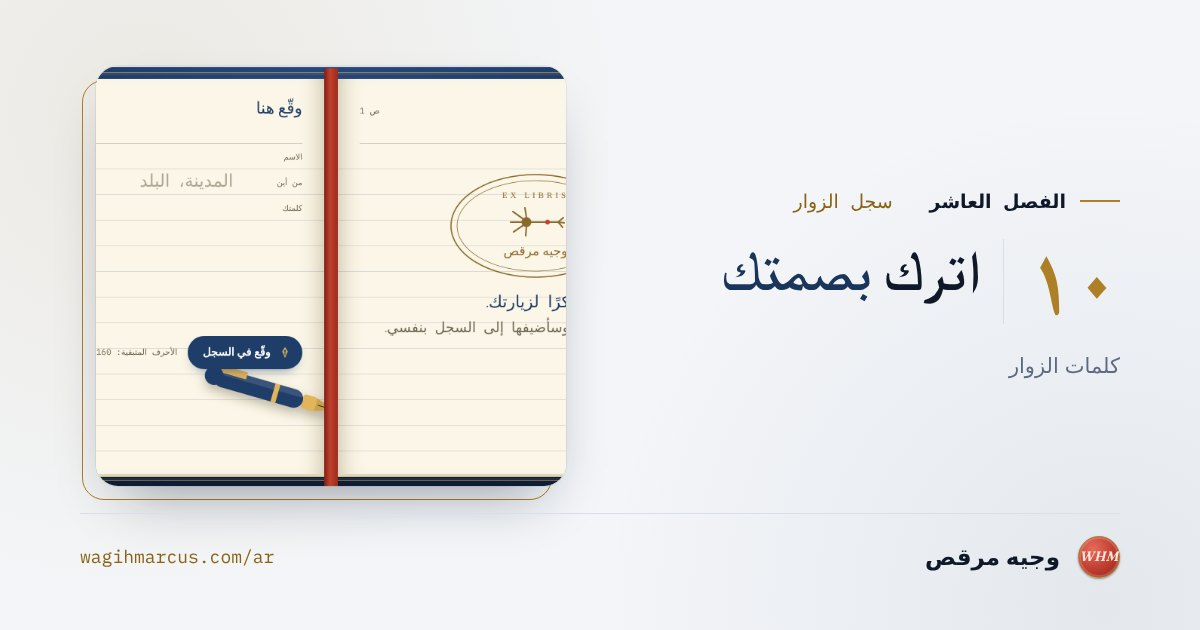
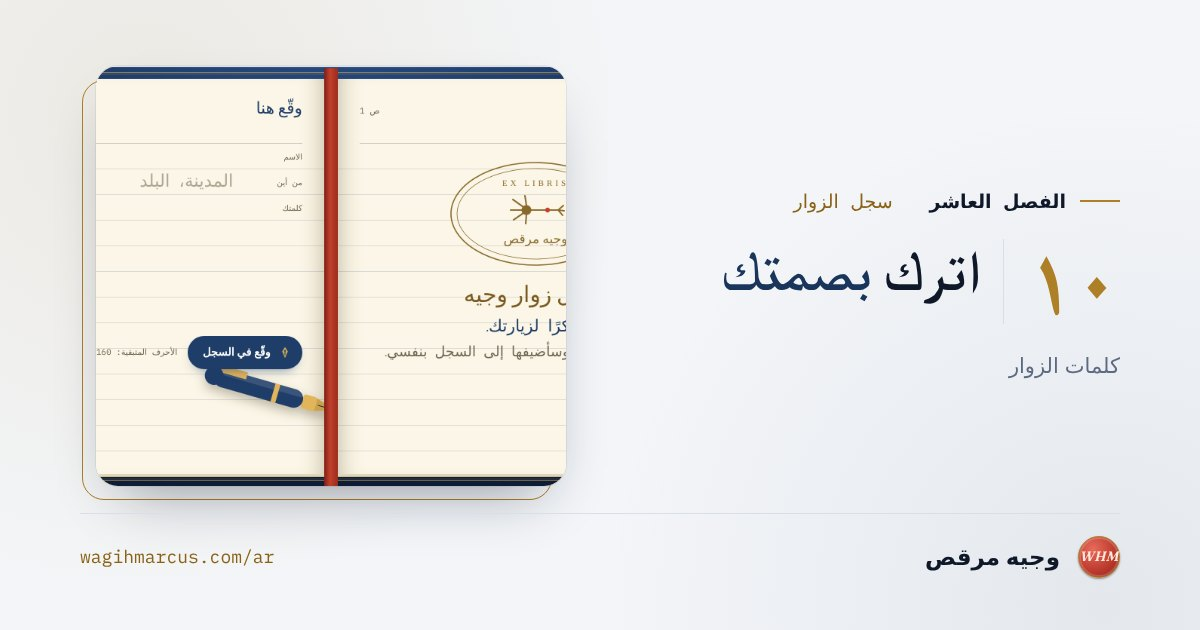
Add files via upload

Changed region(s): [[0.3083, 0.2413, 0.4933, 0.573]]

diff --git a/ar/index.html b/ar/index.html
@@ -1070,6 +1070,7 @@ html[dir="rtl"] .gb-ink{clip-path:inset(0 0 0 100%)}
 <!-- Google Analytics -->
 <script async src="https://www.googletagmanager.com/gtag/js?id=G-3X6H3BF7QM"></script>
 <script>window.dataLayer=window.dataLayer||[];function gtag(){dataLayer.push(arguments);}gtag('js',new Date());gtag('config','G-3X6H3BF7QM');</script>
+<style id="gb-pages">.gb-read .gb-list{height:340px;overflow:hidden}.gb-cover{padding-top:18px}.gb-cover .gb-title{margin:2px 0 6px;font:italic 400 30px/40px var(--f-display);color:#7a5a1f;letter-spacing:.01em}@media (max-width:760px){:root:not(.view-desk) .gb-read .gb-list{height:340px;min-height:0}:root:not(.view-desk) .gb-cover .gb-plate{width:min(200px,72%)}:root:not(.view-desk) .gb-cover .gb-title{font-size:26px;line-height:36px}}:root.view-phone .gb-read .gb-list{height:340px;min-height:0}:root.view-phone .gb-cover .gb-plate{width:min(200px,72%)}:root.view-phone .gb-cover .gb-title{font-size:26px;line-height:36px}</style>
 <style id="i18n-ar">
 /* ===== Arabic edition: fonts, right-to-left layout, islands that stay left-to-right ===== */
 :root{--f-display:"Fraunces","Amiri","Noto Naskh Arabic","Geeza Pro",Georgia,serif;--f-body:"IBM Plex Sans","IBM Plex Sans Arabic","Noto Sans Arabic","Segoe UI",Tahoma,sans-serif;--f-mono:"IBM Plex Mono","IBM Plex Sans Arabic","Noto Sans Arabic",ui-monospace,monospace;--hand:"Nothing You Could Do","Aref Ruqaa","Amiri",cursive}
@@ -1837,7 +1838,7 @@ html[dir="rtl"] .gb-ink{clip-path:inset(0 0 0 100%)}
         <div class="gb-page gb-read">
           <div class="gb-ph"><span class="gb-run">الزوار</span><span class="gb-pno">ص <span id="gb-pno">1</span></span></div>
           <ol class="gb-list" id="gb-list" aria-live="polite"></ol>
-          <div class="gb-turns"><button type="button" class="gb-turn" id="gb-prev" hidden><span aria-hidden="true">←</span> الأقدم</button><button type="button" class="gb-turn gb-later" id="gb-next" hidden>الأحدث <span aria-hidden="true">→</span></button></div>
+          <div class="gb-turns"><button type="button" class="gb-turn" id="gb-prev" hidden><span aria-hidden="true">←</span> السابقة</button><button type="button" class="gb-turn gb-later" id="gb-next" hidden>التالية <span aria-hidden="true">→</span></button></div>
         </div>
         <div class="gb-page gb-write">
           <div class="gb-ph"><span class="gb-run">وقّع هنا</span><span class="gb-date" id="gb-date"></span></div>
@@ -3257,7 +3258,7 @@ html[dir="rtl"] .gb-ink{clip-path:inset(0 0 0 100%)}
   });
 })();
 </script>
-<script id="whm-ui" type="application/json">{"lang": "ar", "site": "https://wagihmarcus.com", "share": "مشاركة", "copied": "تم نسخ الرابط", "shareLabel": "شارك رابط هذا الفصل: {t}", "shareText": "{t} · وجيه مرقص", "copyPrompt": "انسخ هذا الرابط:", "gb": {"dateLocale": "ar-EG-u-nu-latn", "pageName": "العربية", "capEmpty": "كلمات الزوار", "capOne": "توقيع واحد حتى الآن", "capMany": "عدد التوقيعات حتى الآن: {n}", "empty1": "شكرًا لزيارتك.", "empty2": "اترك بضع كلمات، وسأضيفها إلى السجل بنفسي.", "left": "الأحرف المتبقية: {n}", "needName": "من فضلك اكتب اسمك.", "needNote": "من فضلك اترك كلمة قصيرة.", "sending": "جارٍ الإرسال…", "failed": "تعذّر إرسال التوقيع. حاول مرة أخرى بعد قليل.", "offline": "تعذّر إرسال التوقيع. تحقّق من اتصالك وحاول مرة أخرى."}}</script>
+<script id="whm-ui" type="application/json">{"lang": "ar", "site": "https://wagihmarcus.com", "share": "مشاركة", "copied": "تم نسخ الرابط", "shareLabel": "شارك رابط هذا الفصل: {t}", "shareText": "{t} · وجيه مرقص", "copyPrompt": "انسخ هذا الرابط:", "gb": {"dateLocale": "ar-EG-u-nu-latn", "pageName": "العربية", "capEmpty": "كلمات الزوار", "capOne": "توقيع واحد حتى الآن", "capMany": "عدد التوقيعات حتى الآن: {n}", "empty1": "شكرًا لزيارتك.", "empty2": "اترك بضع كلمات، وسأضيفها إلى السجل بنفسي.", "left": "الأحرف المتبقية: {n}", "needName": "من فضلك اكتب اسمك.", "needNote": "من فضلك اترك كلمة قصيرة.", "sending": "جارٍ الإرسال…", "failed": "تعذّر إرسال التوقيع. حاول مرة أخرى بعد قليل.", "offline": "تعذّر إرسال التوقيع. تحقّق من اتصالك وحاول مرة أخرى.", "title": "سجل زوار وجيه"}}</script>
 <script>
 /* v4: language switch, chapter share links and the guestbook */
 (function(){
@@ -3298,7 +3299,7 @@ html[dir="rtl"] .gb-ink{clip-path:inset(0 0 0 100%)}
   (function(){
     var root=document.getElementById('gb');if(!root)return;
     var G=UI.gb||{};function g(k,v){return fill(G[k]!=null?G[k]:k,v);}
-    var DL=G.dateLocale||'en-GB',PER=3,entries=[],page=0;
+    var DL=G.dateLocale||'en-GB',entries=[],page=0,book=[null],rt=0,lastW=0;
     var list=document.getElementById('gb-list'),pno=document.getElementById('gb-pno'),prev=document.getElementById('gb-prev'),next=document.getElementById('gb-next'),cap=document.getElementById('gb-cap');
     var PLATE="<svg class=\"gb-plate\" viewBox=\"0 0 240 150\" aria-hidden=\"true\"><ellipse cx=\"120\" cy=\"75\" rx=\"112\" ry=\"68\" fill=\"none\" stroke=\"currentColor\" stroke-width=\"1.6\"/><ellipse cx=\"120\" cy=\"75\" rx=\"104\" ry=\"60\" fill=\"none\" stroke=\"currentColor\" stroke-width=\".8\"/><g fill=\"none\" stroke=\"currentColor\" stroke-width=\"2\" stroke-linecap=\"round\"><path d=\"M104 66l-14-10M104 70h-17M104 74l-13 9M108 64l-2-13M108 76l-1 12M114 70h36M150 70l7-6M150 70l8 1M150 70l6 7\"/></g><circle cx=\"108\" cy=\"70\" r=\"6.5\" fill=\"currentColor\"/><circle cx=\"136\" cy=\"70\" r=\"3.2\" fill=\"#c2412d\"/><text x=\"120\" y=\"38\" text-anchor=\"middle\" font-family=\"Georgia,serif\" font-size=\"11\" letter-spacing=\"4\" fill=\"currentColor\">EX LIBRIS</text><text x=\"120\" y=\"114\" text-anchor=\"middle\" font-family=\"Amiri,Georgia,serif\" font-size=\"17\" fill=\"currentColor\">وجيه مرقص</text></svg>";
     function iso(d){d=d||new Date();return d.getFullYear()+'-'+('0'+(d.getMonth()+1)).slice(-2)+'-'+('0'+d.getDate()).slice(-2);}
@@ -3309,17 +3310,28 @@ html[dir="rtl"] .gb-ink{clip-path:inset(0 0 0 100%)}
       if(place&&day)w.appendChild(document.createTextNode(' · '));
       if(day){var b=el('bdi',null,fmt(day));w.appendChild(b);}
       return w;}
-    function pages(){return Math.max(1,Math.ceil(entries.length/PER));}
+    function pages(){return book.length;}
     function capText(){var n=entries.length;var c=cap.firstChild;var txt=n===0?g('capEmpty'):n===1?g('capOne'):g('capMany',{n:n});if(c&&c.nodeType===3)c.nodeValue=txt;else cap.insertBefore(document.createTextNode(txt),cap.firstChild);}
+    function entryEl(e){var li=el('li','gb-e'),row=el('div','gb-row'),n=el('span','gb-n',e.name),w=meta(e.place,e.date),p=el('p','gb-t',e.note);
+      n.dir=p.dir='auto';row.appendChild(n);row.appendChild(w);li.appendChild(row);li.appendChild(p);return li;}
+    function titleEl(){var li=el('li','gb-empty gb-cover');li.innerHTML=PLATE;li.appendChild(el('p','gb-title',g('title')));li.appendChild(el('p','gb-e1',g('empty1')));li.appendChild(el('p','gb-e2',g('empty2')));return li;}
+    /* Page 1 is the title page; the notes then fill each page up to its ruled height, oldest first */
+    function paginate(){var out=[null],cur=[];list.textContent='';
+      entries.forEach(function(e,i){var li=entryEl(e);list.appendChild(li);
+        if(cur.length&&list.scrollHeight>list.clientHeight+2){out.push(cur);cur=[];list.textContent='';list.appendChild(li);}
+        cur.push(i);});
+      if(cur.length)out.push(cur);book=out;lastW=list.clientWidth;}
     function draw(){
       list.textContent='';
-      if(!entries.length){var li=el('li','gb-empty');li.innerHTML=PLATE;li.appendChild(el('p','gb-e1',g('empty1')));li.appendChild(el('p','gb-e2',g('empty2')));list.appendChild(li);}
-      else entries.slice(page*PER,page*PER+PER).forEach(function(e){
-        var li=el('li','gb-e'),row=el('div','gb-row'),n=el('span','gb-n',e.name),w=meta(e.place,e.date),p=el('p','gb-t',e.note);
-        n.dir=p.dir='auto';row.appendChild(n);row.appendChild(w);li.appendChild(row);li.appendChild(p);list.appendChild(li);
-      });
+      if(page===0||!book[page])list.appendChild(titleEl());
+      else book[page].forEach(function(i){list.appendChild(entryEl(entries[i]));});
       pno.textContent=String(page+1);prev.hidden=page<=0;next.hidden=page>=pages()-1;capText();
     }
+    function relayout(force){var w=list.clientWidth;if(!w||(!force&&w===lastW)||!entries.length)return;
+      var first=page>0&&book[page]?book[page][0]:-1;paginate();page=0;
+      if(first>=0)book.forEach(function(pg,k){if(k>0&&pg.indexOf(first)>=0)page=k;});draw();}
+    window.addEventListener('resize',function(){clearTimeout(rt);rt=setTimeout(relayout,160);});
+    if(document.fonts&&document.fonts.ready)document.fonts.ready.then(function(){relayout(true);});
     function turn(d){var np=page+d;if(np<0||np>=pages())return;if(reduce){page=np;draw();return;}
       list.classList.add('out');setTimeout(function(){page=np;draw();list.classList.remove('out');list.classList.add('in');setTimeout(function(){list.classList.remove('in')},380);},260);}
     prev.addEventListener('click',function(){turn(-1)});next.addEventListener('click',function(){turn(1)});
@@ -3328,7 +3340,7 @@ html[dir="rtl"] .gb-ink{clip-path:inset(0 0 0 100%)}
       entries=String(txt).split(/\r?\n/).map(function(l){return l.trim()}).filter(function(l){return l&&l.charAt(0)!=='#'}).map(function(l){
         var p=l.split('|').map(function(x){return x.trim()});return{date:p[0]||'',name:p[1]||'',place:p[2]||'',note:p.slice(3).join(' | ')};
       }).filter(function(e){return e.name&&e.note});
-      page=pages()-1;draw();
+      paginate();page=0;draw();
     }).catch(function(){});
 
     /* Signing */

diff --git a/index.html b/index.html
@@ -1070,6 +1070,7 @@ html[dir="rtl"] .gb-ink{clip-path:inset(0 0 0 100%)}
 <!-- Google Analytics -->
 <script async src="https://www.googletagmanager.com/gtag/js?id=G-3X6H3BF7QM"></script>
 <script>window.dataLayer=window.dataLayer||[];function gtag(){dataLayer.push(arguments);}gtag('js',new Date());gtag('config','G-3X6H3BF7QM');</script>
+<style id="gb-pages">.gb-read .gb-list{height:340px;overflow:hidden}.gb-cover{padding-top:18px}.gb-cover .gb-title{margin:2px 0 6px;font:italic 400 30px/40px var(--f-display);color:#7a5a1f;letter-spacing:.01em}@media (max-width:760px){:root:not(.view-desk) .gb-read .gb-list{height:340px;min-height:0}:root:not(.view-desk) .gb-cover .gb-plate{width:min(200px,72%)}:root:not(.view-desk) .gb-cover .gb-title{font-size:26px;line-height:36px}}:root.view-phone .gb-read .gb-list{height:340px;min-height:0}:root.view-phone .gb-cover .gb-plate{width:min(200px,72%)}:root.view-phone .gb-cover .gb-title{font-size:26px;line-height:36px}</style>
 </head>
 <body>
 <div id="site">
@@ -1774,7 +1775,7 @@ html[dir="rtl"] .gb-ink{clip-path:inset(0 0 0 100%)}
         <div class="gb-page gb-read">
           <div class="gb-ph"><span class="gb-run">Visitors</span><span class="gb-pno">p. <span id="gb-pno">1</span></span></div>
           <ol class="gb-list" id="gb-list" aria-live="polite"></ol>
-          <div class="gb-turns"><button type="button" class="gb-turn" id="gb-prev" hidden><span aria-hidden="true">←</span> Earlier</button><button type="button" class="gb-turn gb-later" id="gb-next" hidden>Later <span aria-hidden="true">→</span></button></div>
+          <div class="gb-turns"><button type="button" class="gb-turn" id="gb-prev" hidden><span aria-hidden="true">←</span> Previous</button><button type="button" class="gb-turn gb-later" id="gb-next" hidden>Next <span aria-hidden="true">→</span></button></div>
         </div>
         <div class="gb-page gb-write">
           <div class="gb-ph"><span class="gb-run">Sign here</span><span class="gb-date" id="gb-date"></span></div>
@@ -3194,7 +3195,7 @@ html[dir="rtl"] .gb-ink{clip-path:inset(0 0 0 100%)}
   });
 })();
 </script>
-<script id="whm-ui" type="application/json">{"lang": "en", "site": "https://wagihmarcus.com", "share": "Share", "copied": "Link copied", "shareLabel": "Share a link to this chapter: {t}", "shareText": "{t} · Wagih H. Marcus", "copyPrompt": "Copy this link:", "gb": {"dateLocale": "en-GB", "pageName": "English", "capEmpty": "Notes from visitors", "capOne": "1 signature so far", "capMany": "{n} signatures so far", "empty1": "Thank you for visiting.", "empty2": "Leave a few words, and I will add them to the book.", "left": "{n} characters left", "needName": "Please write your name.", "needNote": "Please leave a short note.", "sending": "Signing…", "failed": "The signature could not be sent. Please try again in a moment.", "offline": "The signature could not be sent. Please check your connection and try again."}}</script>
+<script id="whm-ui" type="application/json">{"lang": "en", "site": "https://wagihmarcus.com", "share": "Share", "copied": "Link copied", "shareLabel": "Share a link to this chapter: {t}", "shareText": "{t} · Wagih H. Marcus", "copyPrompt": "Copy this link:", "gb": {"dateLocale": "en-GB", "pageName": "English", "capEmpty": "Notes from visitors", "capOne": "1 signature so far", "capMany": "{n} signatures so far", "title": "Wagih’s Guestbook", "empty1": "Thank you for visiting.", "empty2": "Leave a few words, and I will add them to the book.", "left": "{n} characters left", "needName": "Please write your name.", "needNote": "Please leave a short note.", "sending": "Signing…", "failed": "The signature could not be sent. Please try again in a moment.", "offline": "The signature could not be sent. Please check your connection and try again."}}</script>
 <script>
 /* v4: language switch, chapter share links and the guestbook */
 (function(){
@@ -3235,7 +3236,7 @@ html[dir="rtl"] .gb-ink{clip-path:inset(0 0 0 100%)}
   (function(){
     var root=document.getElementById('gb');if(!root)return;
     var G=UI.gb||{};function g(k,v){return fill(G[k]!=null?G[k]:k,v);}
-    var DL=G.dateLocale||'en-GB',PER=3,entries=[],page=0;
+    var DL=G.dateLocale||'en-GB',entries=[],page=0,book=[null],rt=0,lastW=0;
     var list=document.getElementById('gb-list'),pno=document.getElementById('gb-pno'),prev=document.getElementById('gb-prev'),next=document.getElementById('gb-next'),cap=document.getElementById('gb-cap');
     var PLATE="<svg class=\"gb-plate\" viewBox=\"0 0 240 150\" aria-hidden=\"true\"><ellipse cx=\"120\" cy=\"75\" rx=\"112\" ry=\"68\" fill=\"none\" stroke=\"currentColor\" stroke-width=\"1.6\"/><ellipse cx=\"120\" cy=\"75\" rx=\"104\" ry=\"60\" fill=\"none\" stroke=\"currentColor\" stroke-width=\".8\"/><g fill=\"none\" stroke=\"currentColor\" stroke-width=\"2\" stroke-linecap=\"round\"><path d=\"M104 66l-14-10M104 70h-17M104 74l-13 9M108 64l-2-13M108 76l-1 12M114 70h36M150 70l7-6M150 70l8 1M150 70l6 7\"/></g><circle cx=\"108\" cy=\"70\" r=\"6.5\" fill=\"currentColor\"/><circle cx=\"136\" cy=\"70\" r=\"3.2\" fill=\"#c2412d\"/><text x=\"120\" y=\"38\" text-anchor=\"middle\" font-family=\"Georgia,serif\" font-size=\"11\" letter-spacing=\"4\" fill=\"currentColor\">EX LIBRIS</text><text x=\"120\" y=\"112\" text-anchor=\"middle\" font-family=\"Georgia,serif\" font-style=\"italic\" font-size=\"13\" fill=\"currentColor\">Wagih H. Marcus</text></svg>";
     function iso(d){d=d||new Date();return d.getFullYear()+'-'+('0'+(d.getMonth()+1)).slice(-2)+'-'+('0'+d.getDate()).slice(-2);}
@@ -3246,17 +3247,28 @@ html[dir="rtl"] .gb-ink{clip-path:inset(0 0 0 100%)}
       if(place&&day)w.appendChild(document.createTextNode(' · '));
       if(day){var b=el('bdi',null,fmt(day));w.appendChild(b);}
       return w;}
-    function pages(){return Math.max(1,Math.ceil(entries.length/PER));}
+    function pages(){return book.length;}
     function capText(){var n=entries.length;var c=cap.firstChild;var txt=n===0?g('capEmpty'):n===1?g('capOne'):g('capMany',{n:n});if(c&&c.nodeType===3)c.nodeValue=txt;else cap.insertBefore(document.createTextNode(txt),cap.firstChild);}
+    function entryEl(e){var li=el('li','gb-e'),row=el('div','gb-row'),n=el('span','gb-n',e.name),w=meta(e.place,e.date),p=el('p','gb-t',e.note);
+      n.dir=p.dir='auto';row.appendChild(n);row.appendChild(w);li.appendChild(row);li.appendChild(p);return li;}
+    function titleEl(){var li=el('li','gb-empty gb-cover');li.innerHTML=PLATE;li.appendChild(el('p','gb-title',g('title')));li.appendChild(el('p','gb-e1',g('empty1')));li.appendChild(el('p','gb-e2',g('empty2')));return li;}
+    /* Page 1 is the title page; the notes then fill each page up to its ruled height, oldest first */
+    function paginate(){var out=[null],cur=[];list.textContent='';
+      entries.forEach(function(e,i){var li=entryEl(e);list.appendChild(li);
+        if(cur.length&&list.scrollHeight>list.clientHeight+2){out.push(cur);cur=[];list.textContent='';list.appendChild(li);}
+        cur.push(i);});
+      if(cur.length)out.push(cur);book=out;lastW=list.clientWidth;}
     function draw(){
       list.textContent='';
-      if(!entries.length){var li=el('li','gb-empty');li.innerHTML=PLATE;li.appendChild(el('p','gb-e1',g('empty1')));li.appendChild(el('p','gb-e2',g('empty2')));list.appendChild(li);}
-      else entries.slice(page*PER,page*PER+PER).forEach(function(e){
-        var li=el('li','gb-e'),row=el('div','gb-row'),n=el('span','gb-n',e.name),w=meta(e.place,e.date),p=el('p','gb-t',e.note);
-        n.dir=p.dir='auto';row.appendChild(n);row.appendChild(w);li.appendChild(row);li.appendChild(p);list.appendChild(li);
-      });
+      if(page===0||!book[page])list.appendChild(titleEl());
+      else book[page].forEach(function(i){list.appendChild(entryEl(entries[i]));});
       pno.textContent=String(page+1);prev.hidden=page<=0;next.hidden=page>=pages()-1;capText();
     }
+    function relayout(force){var w=list.clientWidth;if(!w||(!force&&w===lastW)||!entries.length)return;
+      var first=page>0&&book[page]?book[page][0]:-1;paginate();page=0;
+      if(first>=0)book.forEach(function(pg,k){if(k>0&&pg.indexOf(first)>=0)page=k;});draw();}
+    window.addEventListener('resize',function(){clearTimeout(rt);rt=setTimeout(relayout,160);});
+    if(document.fonts&&document.fonts.ready)document.fonts.ready.then(function(){relayout(true);});
     function turn(d){var np=page+d;if(np<0||np>=pages())return;if(reduce){page=np;draw();return;}
       list.classList.add('out');setTimeout(function(){page=np;draw();list.classList.remove('out');list.classList.add('in');setTimeout(function(){list.classList.remove('in')},380);},260);}
     prev.addEventListener('click',function(){turn(-1)});next.addEventListener('click',function(){turn(1)});
@@ -3265,7 +3277,7 @@ html[dir="rtl"] .gb-ink{clip-path:inset(0 0 0 100%)}
       entries=String(txt).split(/\r?\n/).map(function(l){return l.trim()}).filter(function(l){return l&&l.charAt(0)!=='#'}).map(function(l){
         var p=l.split('|').map(function(x){return x.trim()});return{date:p[0]||'',name:p[1]||'',place:p[2]||'',note:p.slice(3).join(' | ')};
       }).filter(function(e){return e.name&&e.note});
-      page=pages()-1;draw();
+      paginate();page=0;draw();
     }).catch(function(){});
 
     /* Signing */

diff --git a/ja/index.html b/ja/index.html
@@ -1070,6 +1070,7 @@ html[dir="rtl"] .gb-ink{clip-path:inset(0 0 0 100%)}
 <!-- Google Analytics -->
 <script async src="https://www.googletagmanager.com/gtag/js?id=G-3X6H3BF7QM"></script>
 <script>window.dataLayer=window.dataLayer||[];function gtag(){dataLayer.push(arguments);}gtag('js',new Date());gtag('config','G-3X6H3BF7QM');</script>
+<style id="gb-pages">.gb-read .gb-list{height:340px;overflow:hidden}.gb-cover{padding-top:18px}.gb-cover .gb-title{margin:2px 0 6px;font:italic 400 30px/40px var(--f-display);color:#7a5a1f;letter-spacing:.01em}@media (max-width:760px){:root:not(.view-desk) .gb-read .gb-list{height:340px;min-height:0}:root:not(.view-desk) .gb-cover .gb-plate{width:min(200px,72%)}:root:not(.view-desk) .gb-cover .gb-title{font-size:26px;line-height:36px}}:root.view-phone .gb-read .gb-list{height:340px;min-height:0}:root.view-phone .gb-cover .gb-plate{width:min(200px,72%)}:root.view-phone .gb-cover .gb-title{font-size:26px;line-height:36px}</style>
 <style id="i18n-ja">
 /* ===== Japanese edition: fonts, rhythm and line breaking ===== */
 :root{--f-display:"Fraunces","Shippori Mincho","Noto Serif CJK JP","Noto Serif JP","Yu Mincho","Hiragino Mincho ProN",serif;--f-body:"IBM Plex Sans","IBM Plex Sans JP","Noto Sans CJK JP","Noto Sans JP","Hiragino Sans","Yu Gothic",sans-serif;--f-mono:"IBM Plex Mono","IBM Plex Sans JP","Noto Sans CJK JP",ui-monospace,monospace;--hand:"Nothing You Could Do","Klee One","Yomogi",cursive}
@@ -3216,7 +3217,7 @@ html[dir="rtl"] .gb-ink{clip-path:inset(0 0 0 100%)}
   });
 })();
 </script>
-<script id="whm-ui" type="application/json">{"lang": "ja", "site": "https://wagihmarcus.com", "share": "共有", "copied": "リンクをコピーしました", "shareLabel": "この章へのリンクを共有：{t}", "shareText": "{t} · ワギホ・マルクス", "copyPrompt": "このリンクをコピーしてください：", "gb": {"dateLocale": "ja-JP", "pageName": "日本語", "capEmpty": "訪問者のことば", "capOne": "これまでのご記帳：1件", "capMany": "これまでのご記帳：{n}件", "empty1": "ご来訪ありがとうございます。", "empty2": "ひとことお寄せいただければ、芳名録に書き加えます。", "left": "残り{n}文字", "needName": "お名前をご記入ください。", "needNote": "ひとことお書きください。", "sending": "記帳しています…", "failed": "送信できませんでした。少し時間をおいて、もう一度お試しください。", "offline": "送信できませんでした。接続を確認して、もう一度お試しください。"}}</script>
+<script id="whm-ui" type="application/json">{"lang": "ja", "site": "https://wagihmarcus.com", "share": "共有", "copied": "リンクをコピーしました", "shareLabel": "この章へのリンクを共有：{t}", "shareText": "{t} · ワギホ・マルクス", "copyPrompt": "このリンクをコピーしてください：", "gb": {"dateLocale": "ja-JP", "pageName": "日本語", "capEmpty": "訪問者のことば", "capOne": "これまでのご記帳：1件", "capMany": "これまでのご記帳：{n}件", "empty1": "ご来訪ありがとうございます。", "empty2": "ひとことお寄せいただければ、芳名録に書き加えます。", "left": "残り{n}文字", "needName": "お名前をご記入ください。", "needNote": "ひとことお書きください。", "sending": "記帳しています…", "failed": "送信できませんでした。少し時間をおいて、もう一度お試しください。", "offline": "送信できませんでした。接続を確認して、もう一度お試しください。", "title": "ワギホの芳名録"}}</script>
 <script>
 /* v4: language switch, chapter share links and the guestbook */
 (function(){
@@ -3257,7 +3258,7 @@ html[dir="rtl"] .gb-ink{clip-path:inset(0 0 0 100%)}
   (function(){
     var root=document.getElementById('gb');if(!root)return;
     var G=UI.gb||{};function g(k,v){return fill(G[k]!=null?G[k]:k,v);}
-    var DL=G.dateLocale||'en-GB',PER=3,entries=[],page=0;
+    var DL=G.dateLocale||'en-GB',entries=[],page=0,book=[null],rt=0,lastW=0;
     var list=document.getElementById('gb-list'),pno=document.getElementById('gb-pno'),prev=document.getElementById('gb-prev'),next=document.getElementById('gb-next'),cap=document.getElementById('gb-cap');
     var PLATE="<svg class=\"gb-plate\" viewBox=\"0 0 240 150\" aria-hidden=\"true\"><ellipse cx=\"120\" cy=\"75\" rx=\"112\" ry=\"68\" fill=\"none\" stroke=\"currentColor\" stroke-width=\"1.6\"/><ellipse cx=\"120\" cy=\"75\" rx=\"104\" ry=\"60\" fill=\"none\" stroke=\"currentColor\" stroke-width=\".8\"/><g fill=\"none\" stroke=\"currentColor\" stroke-width=\"2\" stroke-linecap=\"round\"><path d=\"M104 66l-14-10M104 70h-17M104 74l-13 9M108 64l-2-13M108 76l-1 12M114 70h36M150 70l7-6M150 70l8 1M150 70l6 7\"/></g><circle cx=\"108\" cy=\"70\" r=\"6.5\" fill=\"currentColor\"/><circle cx=\"136\" cy=\"70\" r=\"3.2\" fill=\"#c2412d\"/><text x=\"120\" y=\"38\" text-anchor=\"middle\" font-family=\"Georgia,serif\" font-size=\"11\" letter-spacing=\"4\" fill=\"currentColor\">EX LIBRIS</text><text x=\"120\" y=\"113\" text-anchor=\"middle\" font-family=\"Shippori Mincho,Noto Serif CJK JP,serif\" font-size=\"14\" letter-spacing=\"1\" fill=\"currentColor\">ワギホ・マルクス</text></svg>";
     function iso(d){d=d||new Date();return d.getFullYear()+'-'+('0'+(d.getMonth()+1)).slice(-2)+'-'+('0'+d.getDate()).slice(-2);}
@@ -3268,17 +3269,28 @@ html[dir="rtl"] .gb-ink{clip-path:inset(0 0 0 100%)}
       if(place&&day)w.appendChild(document.createTextNode(' · '));
       if(day){var b=el('bdi',null,fmt(day));w.appendChild(b);}
       return w;}
-    function pages(){return Math.max(1,Math.ceil(entries.length/PER));}
+    function pages(){return book.length;}
     function capText(){var n=entries.length;var c=cap.firstChild;var txt=n===0?g('capEmpty'):n===1?g('capOne'):g('capMany',{n:n});if(c&&c.nodeType===3)c.nodeValue=txt;else cap.insertBefore(document.createTextNode(txt),cap.firstChild);}
+    function entryEl(e){var li=el('li','gb-e'),row=el('div','gb-row'),n=el('span','gb-n',e.name),w=meta(e.place,e.date),p=el('p','gb-t',e.note);
+      n.dir=p.dir='auto';row.appendChild(n);row.appendChild(w);li.appendChild(row);li.appendChild(p);return li;}
+    function titleEl(){var li=el('li','gb-empty gb-cover');li.innerHTML=PLATE;li.appendChild(el('p','gb-title',g('title')));li.appendChild(el('p','gb-e1',g('empty1')));li.appendChild(el('p','gb-e2',g('empty2')));return li;}
+    /* Page 1 is the title page; the notes then fill each page up to its ruled height, oldest first */
+    function paginate(){var out=[null],cur=[];list.textContent='';
+      entries.forEach(function(e,i){var li=entryEl(e);list.appendChild(li);
+        if(cur.length&&list.scrollHeight>list.clientHeight+2){out.push(cur);cur=[];list.textContent='';list.appendChild(li);}
+        cur.push(i);});
+      if(cur.length)out.push(cur);book=out;lastW=list.clientWidth;}
     function draw(){
       list.textContent='';
-      if(!entries.length){var li=el('li','gb-empty');li.innerHTML=PLATE;li.appendChild(el('p','gb-e1',g('empty1')));li.appendChild(el('p','gb-e2',g('empty2')));list.appendChild(li);}
-      else entries.slice(page*PER,page*PER+PER).forEach(function(e){
-        var li=el('li','gb-e'),row=el('div','gb-row'),n=el('span','gb-n',e.name),w=meta(e.place,e.date),p=el('p','gb-t',e.note);
-        n.dir=p.dir='auto';row.appendChild(n);row.appendChild(w);li.appendChild(row);li.appendChild(p);list.appendChild(li);
-      });
+      if(page===0||!book[page])list.appendChild(titleEl());
+      else book[page].forEach(function(i){list.appendChild(entryEl(entries[i]));});
       pno.textContent=String(page+1);prev.hidden=page<=0;next.hidden=page>=pages()-1;capText();
     }
+    function relayout(force){var w=list.clientWidth;if(!w||(!force&&w===lastW)||!entries.length)return;
+      var first=page>0&&book[page]?book[page][0]:-1;paginate();page=0;
+      if(first>=0)book.forEach(function(pg,k){if(k>0&&pg.indexOf(first)>=0)page=k;});draw();}
+    window.addEventListener('resize',function(){clearTimeout(rt);rt=setTimeout(relayout,160);});
+    if(document.fonts&&document.fonts.ready)document.fonts.ready.then(function(){relayout(true);});
     function turn(d){var np=page+d;if(np<0||np>=pages())return;if(reduce){page=np;draw();return;}
       list.classList.add('out');setTimeout(function(){page=np;draw();list.classList.remove('out');list.classList.add('in');setTimeout(function(){list.classList.remove('in')},380);},260);}
     prev.addEventListener('click',function(){turn(-1)});next.addEventListener('click',function(){turn(1)});
@@ -3287,7 +3299,7 @@ html[dir="rtl"] .gb-ink{clip-path:inset(0 0 0 100%)}
       entries=String(txt).split(/\r?\n/).map(function(l){return l.trim()}).filter(function(l){return l&&l.charAt(0)!=='#'}).map(function(l){
         var p=l.split('|').map(function(x){return x.trim()});return{date:p[0]||'',name:p[1]||'',place:p[2]||'',note:p.slice(3).join(' | ')};
       }).filter(function(e){return e.name&&e.note});
-      page=pages()-1;draw();
+      paginate();page=0;draw();
     }).catch(function(){});
 
     /* Signing */
